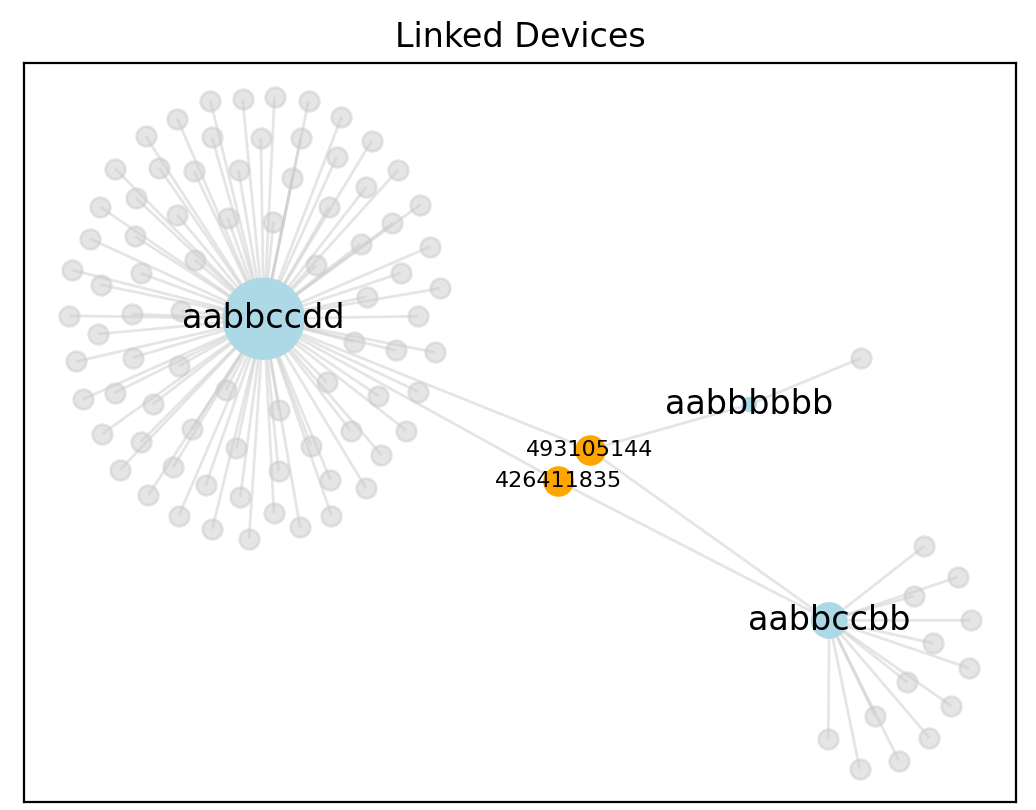
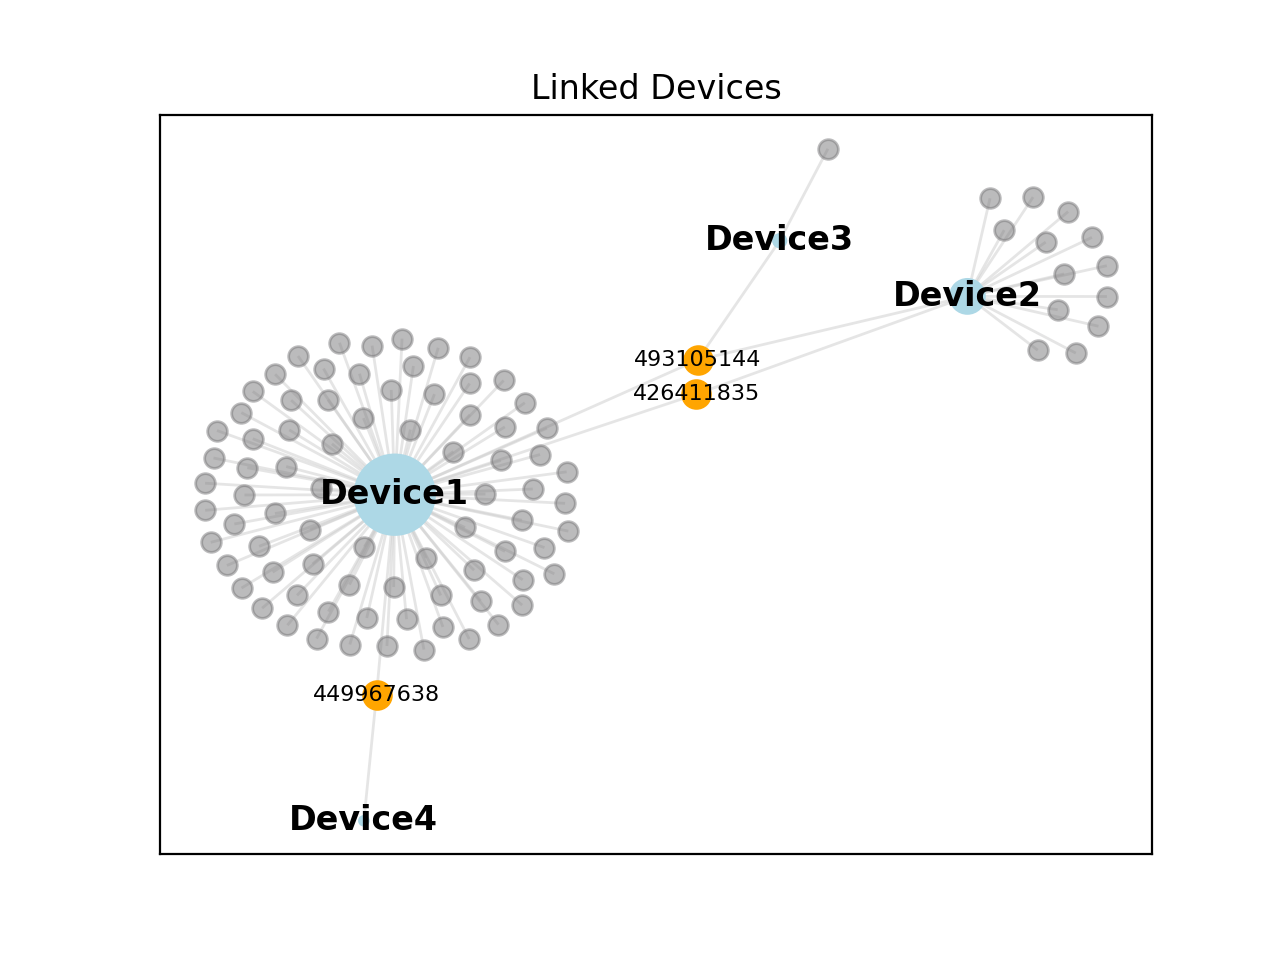
update

diff --git a/berlaNetwork.py b/berlaNetwork.py
@@ -94,7 +94,7 @@ nx.draw_networkx_nodes(
 )
 
 nx.draw_networkx_nodes(
-    g, layout, nodelist=phoneNumbers, node_color="#cccccc", node_size=50, alpha=0.5
+    g, layout, nodelist=phoneNumbers, node_color="#79787a", node_size=50, alpha=0.5
 )
 
 common_numbers = [pNumber for pNumber in phoneNumbers if g.degree(pNumber) > 1]
@@ -111,7 +111,7 @@ node_labels = dict(zip(devices, devices))
 node_lables2 = dict(zip(common_numbers, common_numbers))
 
 # draw lables on Device and common number nodes
-nx.draw_networkx_labels(g, layout, labels=node_labels)
+nx.draw_networkx_labels(g, layout, labels=node_labels, font_weight="bold")
 nx.draw_networkx_labels(g, layout, labels=node_lables2, font_size=8)
 
 plt.title("Linked Devices")

diff --git a/README.md b/README.md
@@ -1,6 +1,6 @@
 # BerlaTools
 
-## Tools to make analysis of BERLA data easier.
+## Tools to simplify analysis of BERLA iVe data.
 Work in progress.
 Python tools to analyse data from Berla iVe extracts in CSV format.
 #
@@ -26,7 +26,6 @@ https://github.com/tqdm/tqdm
 https://networkx.github.io
 
 `pip3 install networkx`
-
 
 
 #
